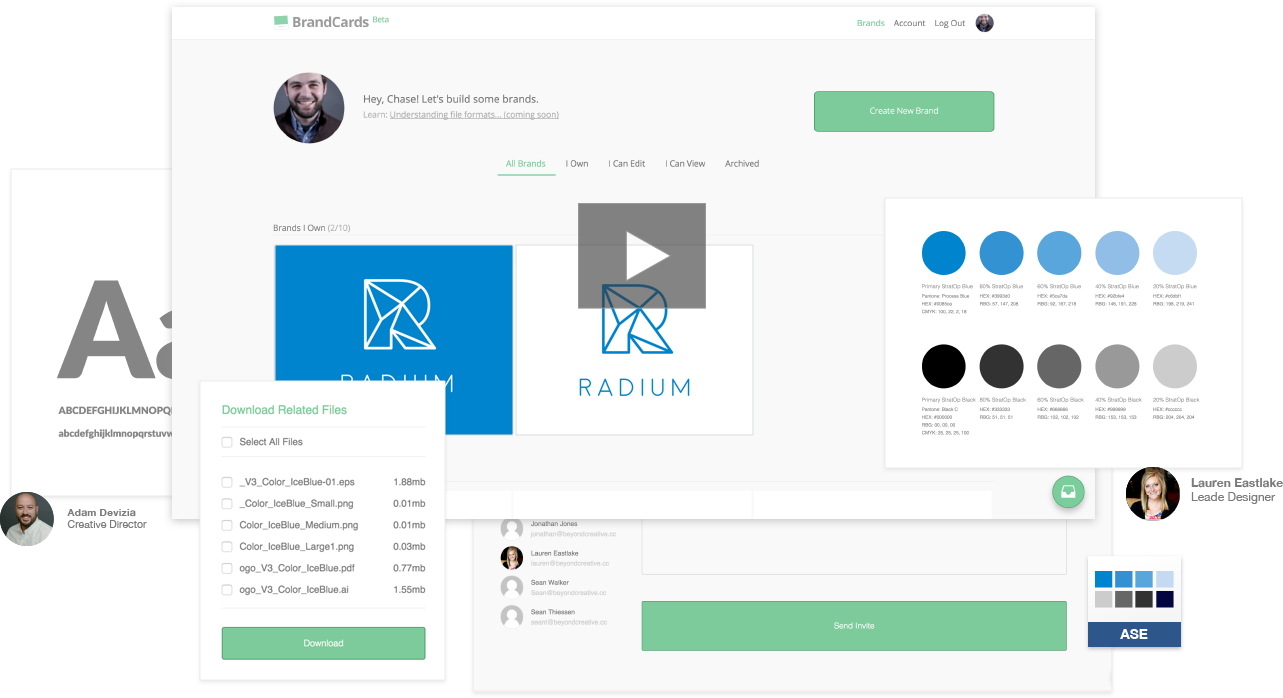
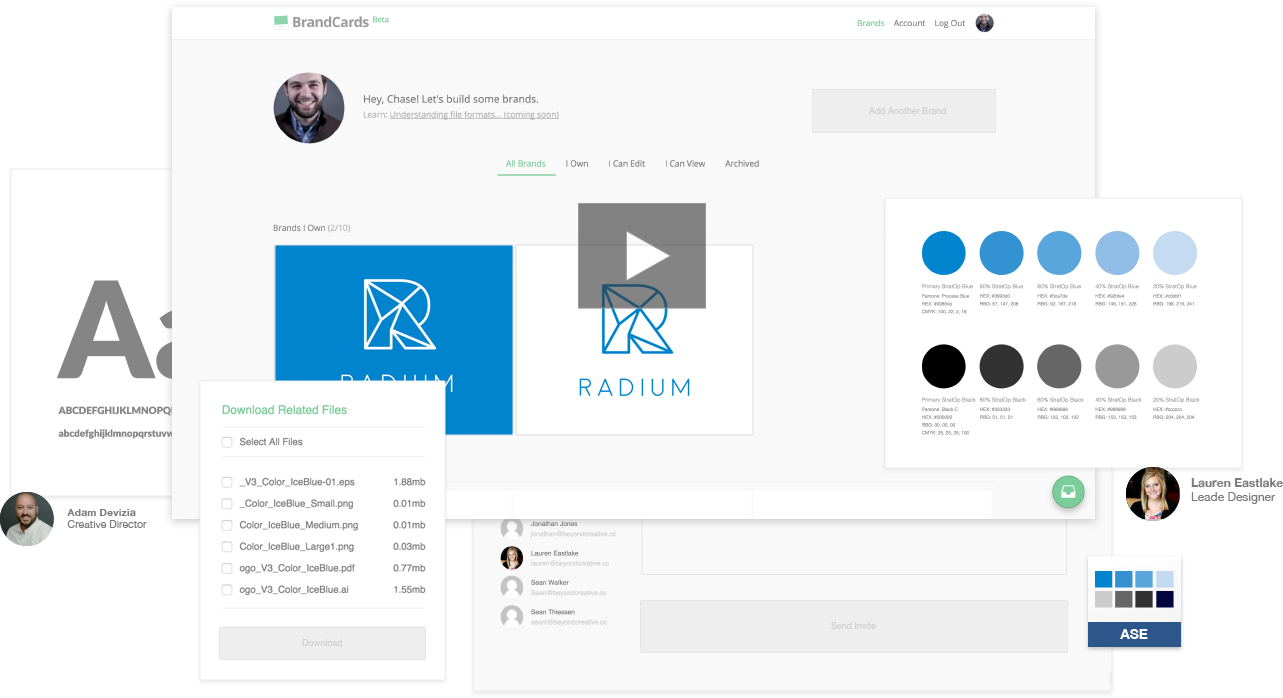
Update Header

Changed region(s): [[0.4988, 0.8424, 0.8418, 0.9327], [0.1559, 0.8725, 0.3429, 0.9628], [0.6235, 0.1203, 0.7794, 0.2106]]

diff --git a/css/main.css b/css/main.css
@@ -236,7 +236,7 @@
   background-size: cover;
   border-bottom: 1px solid #D8D8D8; }
   .header .header_wrapper {
-    width: 70%;
+    width: 60%;
     padding: 160px 0px 180px 0px; }
     .header .header_wrapper .video a {
       text-indent: -99999999;
@@ -250,9 +250,9 @@
       margin-right: 50px;
       background-image: url("../images/play_logo.png"); }
     .header .header_wrapper h2 {
-      font-size: 75px;
-      line-height: 75px;
-      margin: 0px 0px 25px 0px;
+      font-size: 65px;
+      line-height: 65px;
+      margin: 0px 0px 15px 0px;
       text-transform: uppercase;
       color: #585858; }
     .header .header_wrapper p {
@@ -264,6 +264,8 @@
         display: block;
         margin-top: 20px;
         color: #4D8364; }
+    .header .header_wrapper .button {
+      width: 70%; }
 
 .app_image {
   background: #F9F9F9;

diff --git a/scss/header.scss b/scss/header.scss
@@ -59,7 +59,7 @@
   border-bottom: 1px solid $lightgray;
 
 	.header_wrapper {
-		width: 70%;
+		width: 60%;
 		padding: 160px 0px 180px 0px;
 
 		.video {
@@ -78,9 +78,9 @@
 		}
 
 		h2 {
-			font-size: 75px;
-			line-height: 75px;
-			margin: 0px 0px 25px 0px;
+			font-size: 65px;
+			line-height: 65px;
+			margin: 0px 0px 15px 0px;
 			text-transform: uppercase;
 			color: $darkgray;
 		}
@@ -96,6 +96,10 @@
 				margin-top: 20px;
 				color: $darkgreen;
 			}
+		}
+
+		.button {
+			width: 70%;
 		}
 	}
 }

diff --git a/page-home.php b/page-home.php
@@ -20,6 +20,7 @@ get_header(); ?>
 				<div class="text col span_16">
 					<h2>Your Brand Deserves Better</h2>
 					<p>Trying to communicate design decisions in a file name is not working. You put too much work into your brand to let it slowly fall apart. <strong>There’s a better way.</strong></p>
+					<a href="#" class="button">Create An Account</a>
 				</div>
 			</div>
 		</div>
